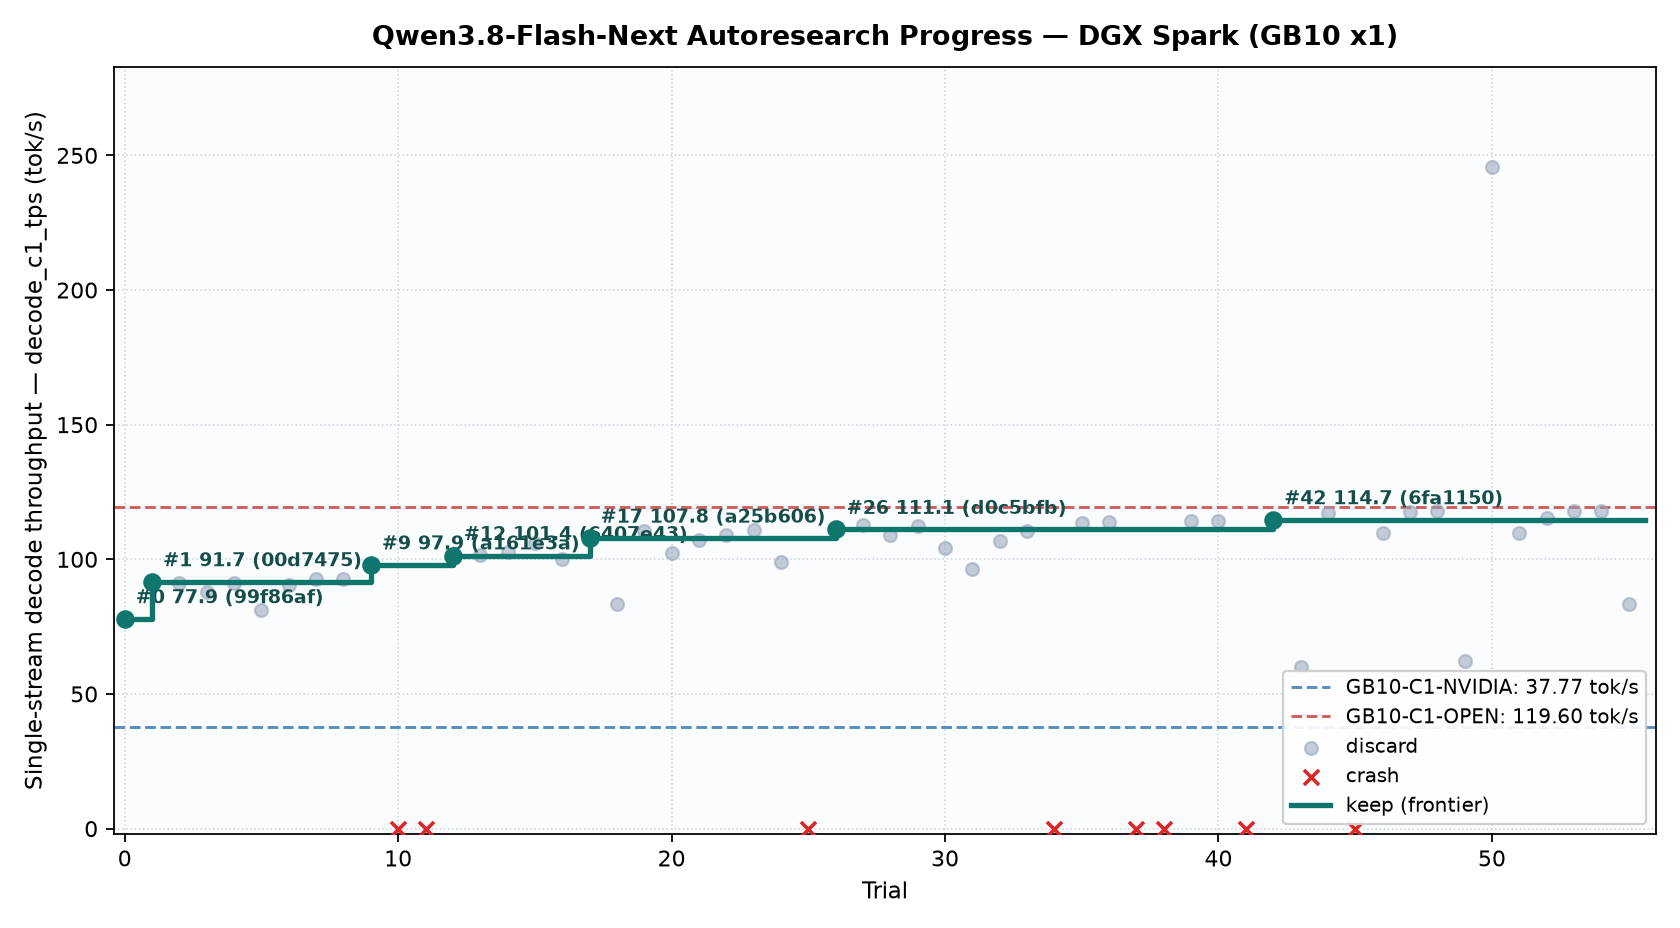
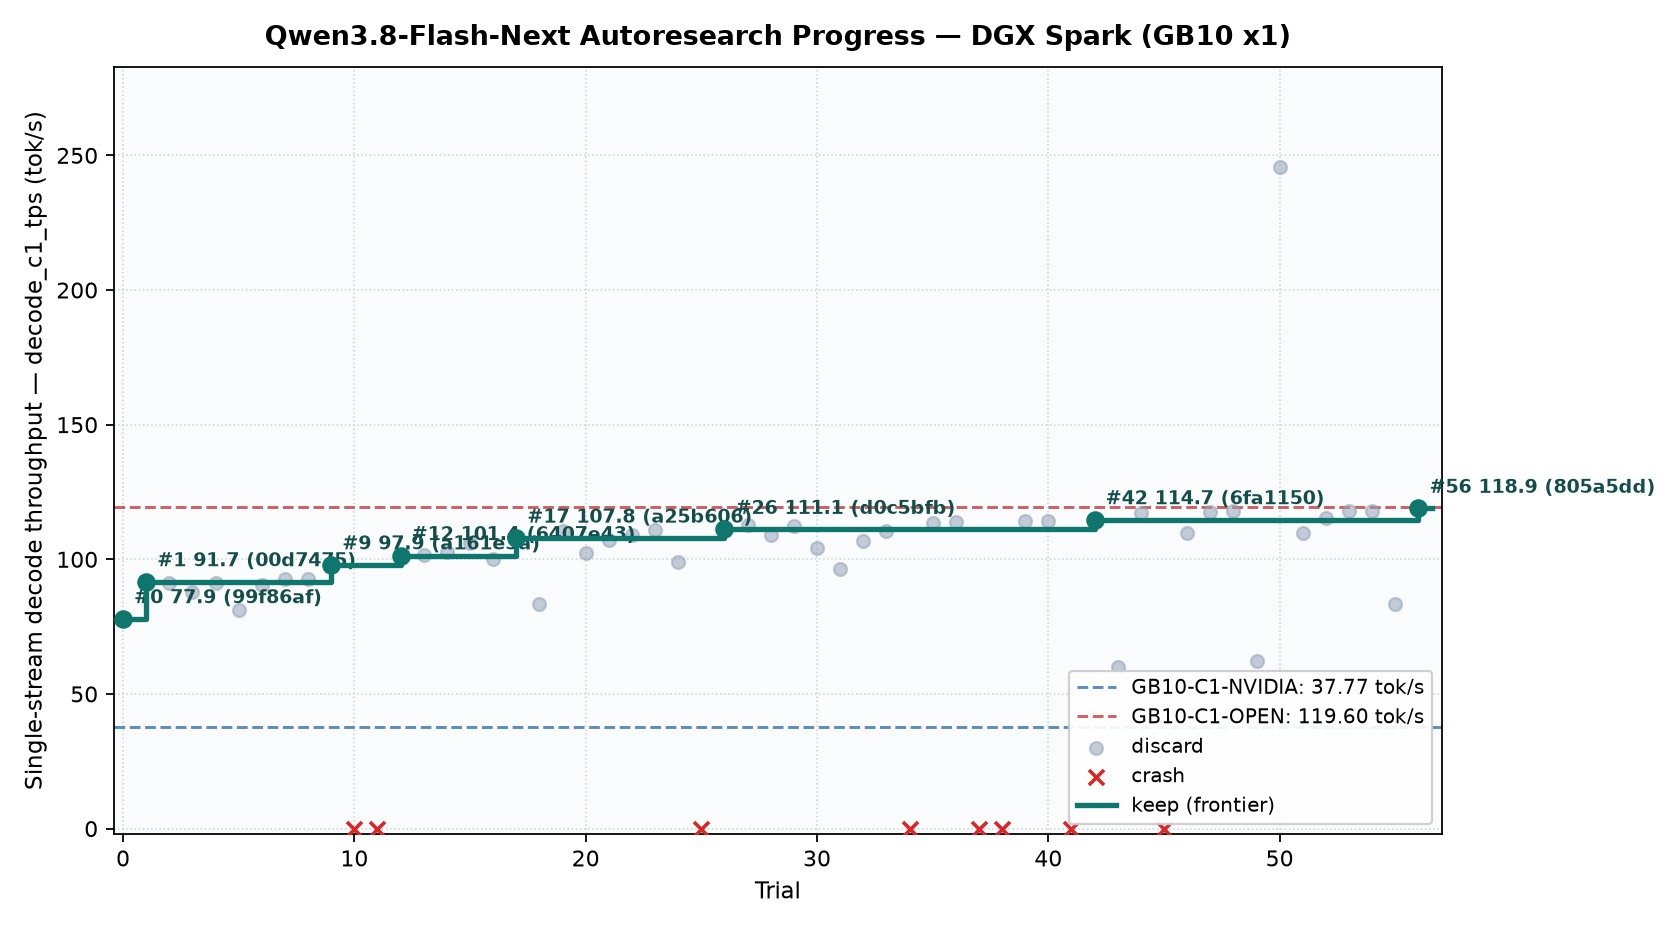
spark trial 56: keep

diff --git a/records/research-log.md b/records/research-log.md
@@ -85,3 +85,4 @@ Deprioritized: **3-bit expert weights** (Hibana +43% but GPQA -0.3, LCB -2.3; on
 | 2026-11-20 12:26 | 53 (new stack) | <https://github.com/vllm-project/vllm/commit/700af461>, <https://github.com/sgl-project/sglang/commit/a242c277>, <https://github.com/NVIDIA/TensorRT-LLM/commit/7e8fc6db>, <https://github.com/ashhart/TensorFold/commit/9e2a9bd7> | Six-engine check (`vllm` `700af461`, `sglang` `a242c277`, `TensorRT-LLM` `7e8fc6db`, `llama.cpp` `b94959a6`, `TensorFold` `9e2a9bd7`, `hibana` `d474b74d`): Trial 52 (Hibana item 3) hit bit-exact records on `c4=168.96`, `c16=275.41`, `ttft=0.153s`, `prefill=1606.74`, while `D24 c=0.045` added `+1` round (`41->42`) on `code-c1` (`115.53`); `nsys` node profile of Trial 48 showed MXFP8 MTP dense+HC linears consume `300.3 ms` (`6.1%` GPU time), and enabling Trial 44/48's 6.25-bit symmetric `INT6+E4M3` MTP encoder (`TF_FLASHNEXT_MTP_INT6=1`, `30.4-32.3 dB` SNR, `-24.2%` MTP dense DRAM, keeping `fc_hidden` MXFP8) beat Trial 48 on all 4 coding prompts (`avg_c1 86.50 vs 84.03`, `+2.94%`, `c4 159.05 vs 153.73`, `+3.46%`) with 100% exact SHAs. | Adopted in trial 53 on Trial 48 base: enable `TF_FLASHNEXT_MTP_INT6=1` (6.25-bit symmetric INT6+E4M3 MTP dense linears and HC mixers, keeping `fc_hidden` MXFP8 and `DRAFTS_GREEDY=15`, `CONFIDENCE=-0.28`; `hash_match=1`). |
 | 2026-11-20 12:48 | 54 (new stack) | <https://github.com/vllm-project/vllm/commit/deac6e19>, <https://github.com/sgl-project/sglang/commit/2e7bdf77>, <https://github.com/ashhart/TensorFold/blob/v1.2.9/zig/kernels/cuda/nvfp4_experts.cu>, <https://github.com/ashhart/TensorFold/blob/v1.2.9/zig/kernels/cuda/flashnext_attn.cu> | Six-engine check (`vllm` `deac6e19`, `sglang` `2e7bdf77`, `TensorRT-LLM` `7e8fc6db`, `llama.cpp` `b94959a6`, `TensorFold` `9e2a9bd7`, `hibana` `d474b74d`): Trial 53 cut per-round time `-2.44%` (`82.51->80.50 ms/rd`) and hit record `c4=169.11` (`hash_match=1`) while `+1` round (`41->42`) kept `c1=117.95`; `nsys` node profile + cold-DRAM GB10 microbenchmarks on Trial 48 isolated 4 100% algebraically bit-exact target-side wins preserving exact `41` rounds: (1) 2-warp coalesced `uint4` SMEM-exchanged `D=3` `tf_nvfp4_coop2_u4` (`88` regs, `0` spill, `640B` SMEM, `__noinline__` `cnt>8`, `diff=0`) beats `tf_nvfp4_half_coop2` (`30.1%` GPU time) by `-5.71%` (`594.0->560.1 us`); (2) double-buffered `fn_attn_fused_ahead(_paged)` for single-chunk decode (`chunks==1`, `ends<=512`) eliminates all `1,511` `fn_attn_merge` calls (`27.8 ms`) and `PO/PM/PL` round-trips; (3) `BN=64` (`h_thr=32`) for `.bf12` `hc.down` (`184.8 ms`, `-12.6%`); (4) 33-CTA 2-warp `route_w2_s4_k128` (`-3.7%` on `68.5 ms` `tf_route_logits_few`). | Adopted in trial 54 on Trial 48 exact base (`MTP_INT6=0`, preserving `41` rounds): `tf_nvfp4_coop2_u4`, single-chunk `fn_attn_fused_ahead(_paged)`, `BN=64` `.bf12` `hc.down`, and 33-CTA `route_w2_s4_k128` (`hash_match=1`). |
 | 2026-11-20 13:13 | 55 (new stack) | <https://github.com/NVIDIA/TensorRT-LLM/pull/21763>, <https://github.com/ashhart/TensorFold/blob/v1.2.9/zig/kernels/cuda/qmmf_body.cuh>, <https://github.com/vllm-project/vllm/commit/0d787bf9>, <https://github.com/sgl-project/sglang/commit/c09ff83e> | Six-engine check (`vllm` `0d787bf9`, `sglang` `c09ff83e`, `TensorRT-LLM` `v1.3.0`/`dba48932`/PR `#21763` Spark Qwen3.8 cases, `llama.cpp` `b12556`/`b94959a6`, `TensorFold` `v1.3.0`/`9e2a9bd7`, `hibana` `v0.1.0`/`d474b74d`): Trial 54 hit `118.15` initial / `118.01` repro (`c4=169.36`, `c8=230.77`, `c16=275.21`, `prefill=1611.74`, `hash_match=1`), missing `+3.0%` repro by `0.13 tok/s`; real-weight `BF11` audit exposed why Trial 43 regressed (`hc.up` had `66-93%` and `hc.down` `37-51%` `hi4` overflow causing escape storms, whereas `in_proj_qkv` `0.08%`, `in_proj_z` `0.12%`, `q_proj` `0.12%`, `o_proj` `0.03%`, `out_proj` `0.99%`, `shared_down` `0.00-0.62%` have `<1%` overflow), and cold-DRAM GB10 microbenchmarks showed `cp.async.bulk` TMA on `BN>=64` + selective lossless `BF11` (`5760B/tile`, `-6.25%` DRAM, `__noinline__` `dec12_pair_esc`) cuts `in_proj` `-6.1%` (`348.9->327.5 us`) and `out_proj` `-5.3%` (`172.9->163.8 us`) with `STAGES=3` (`S2_MAX_PER=8`) beating `STAGES=2` on `out_proj`. | Adopted in trial 55 on Trial 54 exact base (`MTP_INT6=0`, preserving `41` rounds): automatic overflow-gated lossless `Mode::BF11` (`n>=1024`, `ov_jj<=2%`, auto-keeping `hc.up`/`hc.down` in `BF12`, plus `shared_down_bf11`/`half`/`prompt`), `cp.async.bulk` TMA on `BN>=64` `BF12`/`BF11`, and `TF_BF12_S2_MAX_PER=8` (`hash_match=1`). |
+| 2026-11-20 13:56 | 56 (new stack) | <https://github.com/vllm-project/vllm/commit/84144487>, <https://github.com/sgl-project/sglang/commit/d96ae958>, <https://github.com/NVIDIA/TensorRT-LLM/commit/ff409698>, <https://github.com/ashhart/TensorFold/commit/f35bfa46> | Six-engine check (`vllm` `84144487` online NVFP4->MXFP4 `#61620`, `sglang` `d96ae958`, `TensorRT-LLM` `ff409698`, `llama.cpp` `b94959a6`, `TensorFold` `f35bfa46`, `hibana` `d474b74d`): Trial 55 A/B isolated `BF11` (`+28 ms/rd` real-weight ballot/escape divergence) and `BN=64` TMA (`+1024B` static SMEM dropping `4->3` CTAs/SM) as the cause of `83.55`; `nsys` node profile of Trial 54 (`118.15/118.01`) plus 5-way Spark A/B isolated 4 clean bit-exact wins on Trial 54 base: (1) `Mode::W1` (`1.125-bit`, g64, `89.4 MB` vs `178.8 MB`, `-48%` coarse `lm_head` `889.5->462.6 us`, `-89 MB` VRAM) with exact BF16 top-192 direct-argmax rescore; (2) `BN=16, WN=2` (`64` threads) `tf_qmmf_shared_bf12_16_qtr` (`-10.5%` on `114.8 ms` `shared_down`); (3) `cp.async.cg...L2::256B` on `BN=64` `qmmf` weight loads (`-1.8%` on `964 ms` `in_proj`/`q_proj`, `0` extra SMEM); (4) `TF_FLASHNEXT_MTP_INT6=1` (`-24.2%` MTP dense DRAM, winning both coding prompts `80.8->82.9` and `80.3->81.4` at 100% exact SHAs). | Adopted in trial 56 on Trial 54 exact base: `Mode::W1` main `lm_head` (`KTOP=192`), `BN=16 WN=2` `shared_down`, `L2::256B` `BN=64` `qmmf` weights, and `TF_FLASHNEXT_MTP_INT6=1` (`hash_match=1`). |
